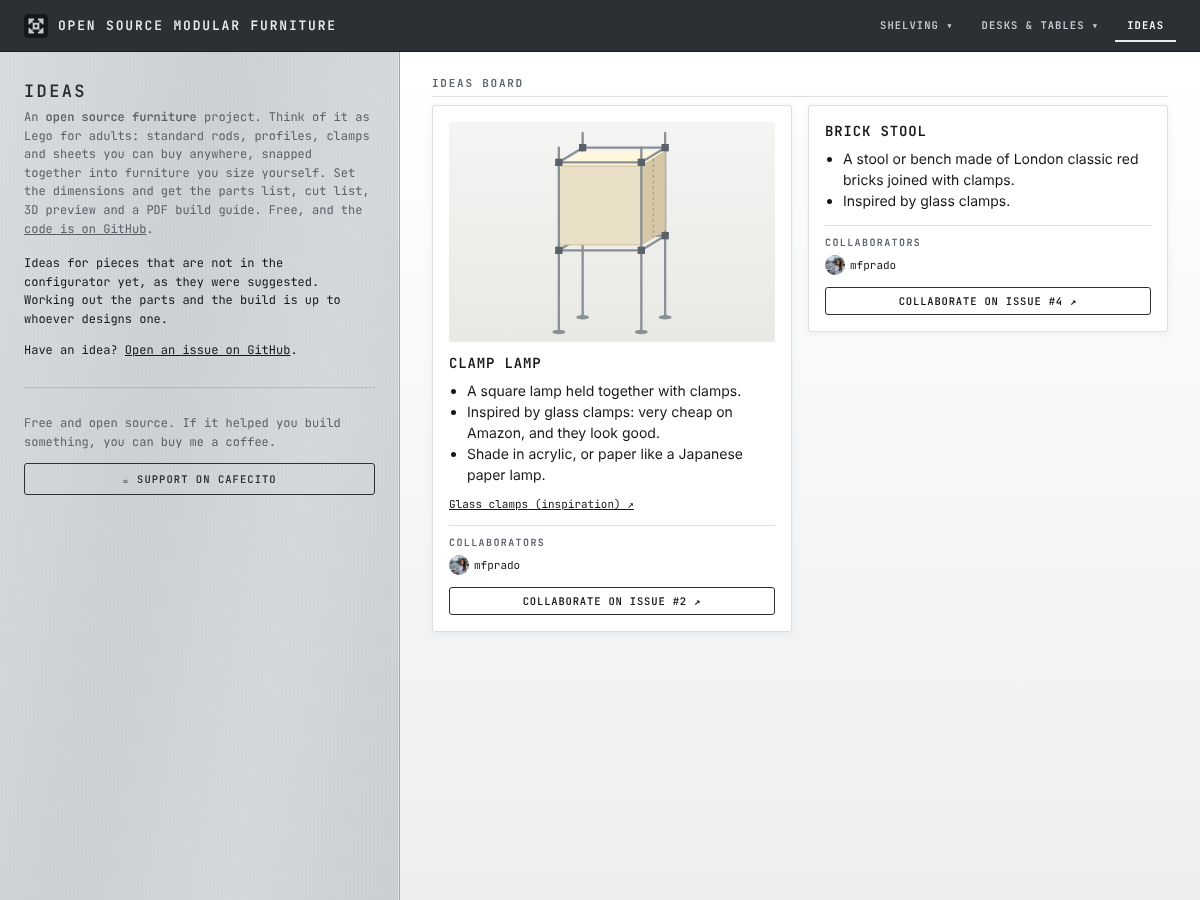
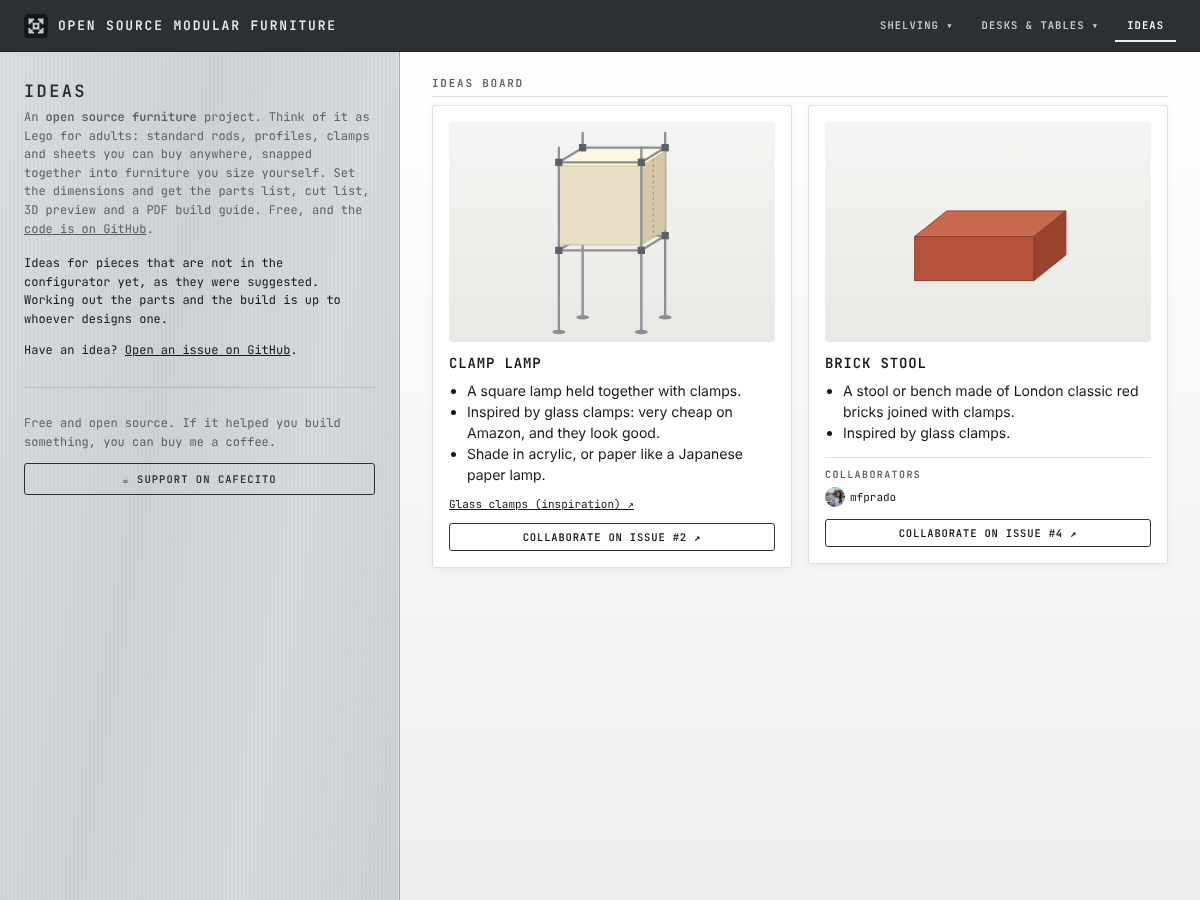
Add a brick sketch to the Brick stool idea
Refs #4

Claude-Session: https://claude.ai/code/session_01An6R84w6jn1688FYpKdKBS

diff --git a/src/ideas.js b/src/ideas.js
@@ -34,6 +34,12 @@ export const IDEAS = [
       'Inspired by glass clamps.',
     ],
     issue: 4,
+    // drawn from the request: a single classic London red brick
+    sketch: `<svg viewBox="0 0 200 240" role="img" aria-label="Sketch: a single classic red brick">
+      <polygon points="20,125 150,125 185,97 55,97" fill="#c9694f" stroke="#8a3a29"/>
+      <polygon points="150,125 185,97 185,145 150,173" fill="#9a432f" stroke="#8a3a29"/>
+      <rect x="20" y="125" width="130" height="48" fill="#b5523b" stroke="#8a3a29"/>
+    </svg>`,
   },
 ];
 
